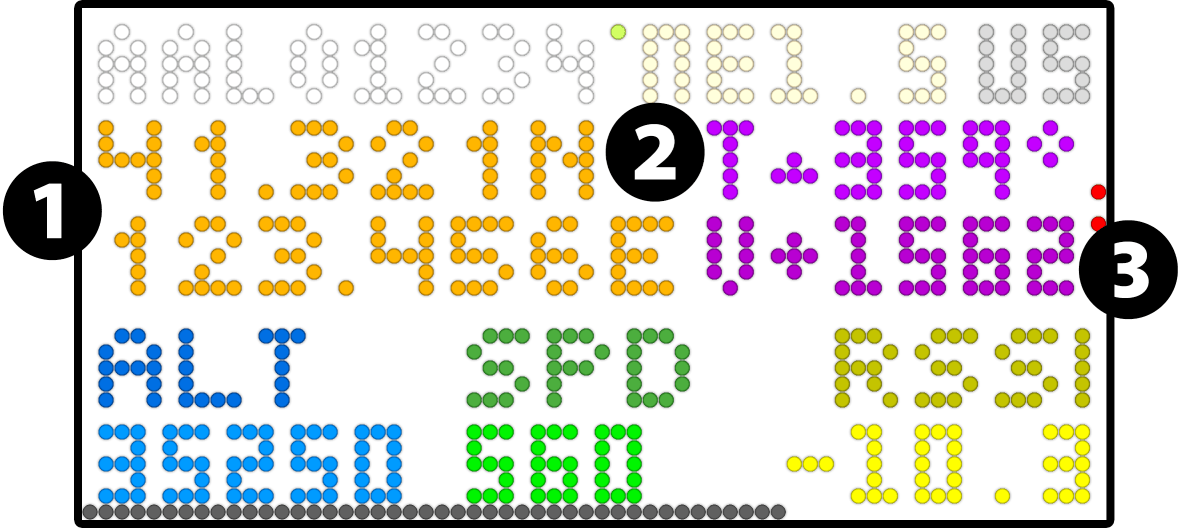
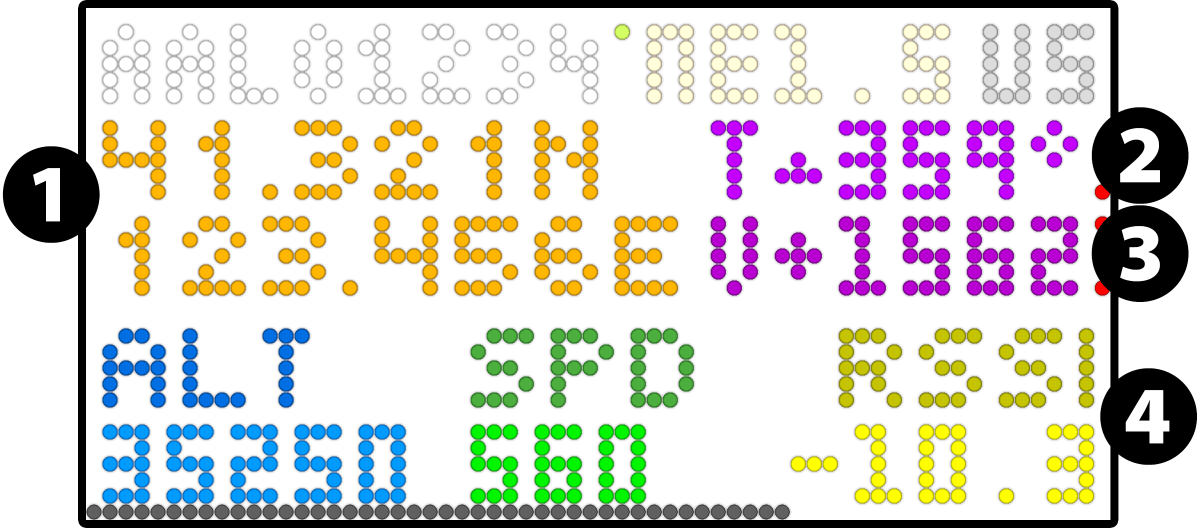
v.8.1.0
In JOURNEY_PLUS and using SHOW_EVEN_MORE_INFO, the RSSI section is now replaced with the Track readout

diff --git a/FlightGazer.py b/FlightGazer.py
@@ -33,7 +33,7 @@ import time
 START_TIME: float = time.monotonic()
 import datetime
 STARTED_DATE: datetime = datetime.datetime.now()
-VERSION: str = 'v.8.0.4 --- 2025-08-27'
+VERSION: str = 'v.8.1.0 --- 2025-08-29'
 import os
 os.environ["PYTHONUNBUFFERED"] = "1"
 import argparse
@@ -2097,9 +2097,9 @@ class PrintToConsole:
         # verbose stats line 3 (timing info)
         json_details_2 = []
         if VERBOSE_MODE:
-            json_details_2.append(f"> Timing control: dump1090 age {dump1090_json_age[0] - determined_time_offset:.3f}s")
+            json_details_2.append(f"> Timing control: dump1090 age {dump1090_json_age[0]:.3f}s")
             if DUMP978_JSON is not None:
-                json_details_2.append(f", dump978 age {dump1090_json_age[1] - determined_time_offset:.3f}s")
+                json_details_2.append(f", dump978 age {dump1090_json_age[1]:.3f}s")
             json_details_2.append(f" | Drift correction next loop: {lockstep_corrector * 1000:.3f}ms")
             json_details_2.append(f" | Detected time offset: {determined_time_offset:.3f}s")
         print("".join(json_details_2))
@@ -2596,7 +2596,8 @@ def main_loop_generator() -> None:
                         else:
                             direc = ""
                         elevation, slant_range_dist = elevation_and_slant(distance, alt)
-                        if abs(determined_time_offset) > 5: dt = 0
+                        if abs(determined_time_offset) > 5 or USING_FILESYSTEM:
+                            dt = 0
                         else: dt = determined_time_offset
                         if source == 'ADS-B':
                             true_data_age = ((seen_pos
@@ -3862,8 +3863,9 @@ class WriteState:
                 'dump1090_type': dump1090 if DUMP1090_JSON is not None else None,
                 'location_is_set': True if (rlat is not None and rlon is not None) else False,
                 'response_time_ms': process_time[0],
-                'dump1090_json_data_age_sec': round(dump1090_json_age[0] - determined_time_offset, 3),
-                'dump978_json_data_age_sec': None if not DUMP978_JSON else round(dump1090_json_age[1] - determined_time_offset, 3),
+                'dump1090_json_data_age_sec': round(dump1090_json_age[0] - determined_time_offset, 3) if not USING_FILESYSTEM else round(dump1090_json_age[0], 3),
+                'dump978_json_data_age_sec': None if not DUMP978_JSON else
+                                                (round(dump1090_json_age[1] - determined_time_offset, 3) if not USING_FILESYSTEM_978 else round(dump1090_json_age[1], 3)),
                 'polling_drift_correction_ms': round(lockstep_corrector * 1000, 3),
                 'json_size_KiB': round(runtime_sizes[0] / 1024, 3),
                 'json_transfer_rate_MiB_per_sec': 0. if process_time[0] == 0 else
@@ -4469,18 +4471,53 @@ class Display(
     Uses techniques from Colin Waddell's its-a-plane-python project but diverges significantly from his design.
 
     This Display class is a huge mess, but it works and its structure has not changed since v.0.8.0.
+    On a Raspberry Pi Zero 2W and using rgbmatrix, it takes about 4 ms to generate each frame.
     Why is this class not broken out as its own module? Threading and global variables, basically. A rewrite at this point isn't worth it imho.
     Data to display is handled and parsed by `DisplayFeeder` while time-based elements like the clock are handled internally.
     Actual draw routines and shape primitives are also handled internally.
-    The actual workings of this class should already be well-explained with all the comments and docstrings.
+
+    Drawing to the display is done in parts and containerized by functionality; as individual data samples can change from loop to loop, it's more
+    "efficient" and flexible to handle the drawing elements piecewise rather than as a whole "scene". This does make the overall logic handling harder,
+    as at this point (v.8.1.0) there are 7 settings that influence the rendering of 4 main layouts, each with subvariations which rely on logic agreements between methods.
+    Additionally during runtime, these layouts can switch between one another as required by other global runtime variables referenced outside of this class.
+    Keeping track of how globals influence what each method does is one of the main sticking points in regards to adding or modifying the display layout.
+    But realistically, the layout has been stable with the last major addition being v.6.0.0 and nothing in the forseeable future should change this in a significant way.
+    (see the changelog of this class at the end of this docstring, I hope you like reading lore)
+
+    Figure 1: The general display state flowchart
+
+    ░░░░░░░░░░░░░░░░░                  ░░░░░░░░░░░░░░░░░░░░░░░░░░░░░░░░░░░░░░░░░░░░░░░░░░░░░░░░░░░░░░░░░
+    ░   Clock (2)   ░ ◄──────────────► ░   Active Plane Display                                        ░
+    ░░░░░░░░░░░░░░░░░                  ░            |                                                  ░
+    Base Display Layout                ░            if        F ──► Default Journey -or (3)-           ░
+                                       ░     ENHANCED_READOUT       Journey Plus (1)                   ░
+                                       ░            |                  ▲                               ░
+                                       ░           T|                  | depends on                    ░
+                                       ░            |                  | ENHANCED_READOUT_AS_FALLBACK  ░
+                                       ░            |                  ▼                               ░
+                                       ░            └───────────► Enhanced Readout (1)                 ░
+                                       ░░░░░░░░░░░░░░░░░░░░░░░░░░░░░░░░░░░░░░░░░░░░░░░░░░░░░░░░░░░░░░░░░
+
+    Key:
+    Sublayouts that are chosen on startup:
+        (1) The default layout or when SHOW_EVEN_MORE_INFO is enabled
+        (2) The default or when CLOCK_CENTER_ROW_2ROWS is enabled
+        (3) Default Journey or Journey Plus
+
+    Notes:
+    Essentially at every loop, all methods are called to draw to the display, but their ability to draw is mainly controlled
+    by the global `active_plane_display`. Then, each section will draw their respective part, depending on what needs to be drawn
+    and where, including positioning, what font to use, and what color. Look through each method as needed.
 
     Use the @Animator decorator to control both how often elements update along with associated logic evaluations.
     When using the decorator, the second (optional) argument specifies the offset for each element in the render queue such that
-    when (global frame counter - offset) % frame duration == 0, the function will run (except for the first frame).
-    Additional quirks: functions when requested to render on the same frame as another are rendered alphabetically, not
-    in the order they are defined in the class. Hence why functions within this class will have a letter prefix before their name.
-    Additionally, each function has their own internal frame counter `count` for each time they are run, incremented by `Animator`.
-    If a function returns True, this resets that internal counter.
+    when (global frame counter - offset) % frame duration == 0, the method will run (except for the first frame).
+    Additional quirks: methods when requested to render on the same frame as another are rendered alphabetically, not
+    in the order they are defined in the class. Hence why methods within this class will have a letter prefix before their name.
+    Additionally, each method has their own internal frame counter `count` for each time they are run, incremented by `Animator`.
+    If a method returns True, this resets that internal counter.
+
+    Figure 2: Frame representation in relation to method order and arguments
 
     Frame ---->  0      1      2      3      4 ...
     a_func(1)    ░░░0░░░▒▒▒1▒▒▒░░░2░░░▒▒▒3▒▒▒
@@ -4488,6 +4525,30 @@ class Display(
     b_func(1)    ░░░0░░░▒▒▒1▒▒▒░░░2░░░▒▒▒3▒▒▒
     c_func(3,1)         ░░░░░░░░░░0░░░░░░░░░░
     ...
+
+    Major additions/changes to this class (living document):
+    - v.8.1.0: In JOURNEY_PLUS and with SHOW_EVEN_MORE_INFO, the Time/RSSI section now shows ground track instead
+    - v.8.0.0: Add variable/adaptive frame rate
+    - v.6.0.0: Implemented the scrolling/marquee (SHOW_EVEN_MORE_INFO), requiring font adapations and layout changes for ENHANCED_READOUT and JOURNEY_PLUS
+    - v.3.4.0: Fully enable JOURNEY_PLUS
+    - v.3.3.0: Responsiveness improvements
+    - v.3.1.0: Add handling for ALTERNATIVE_FONT
+    - v.3.0.0:
+        - Depreciate old sunrise/sunset method and use CLOCK_CENTER_ROW
+        - Enable printing of two lines in the Clock's center row
+    - v.2.9.0:
+        - Add progress bar for planes
+        - Add exception handling for this class
+    - v.2.2.0: Colors are no longer hardcoded
+    - v.2.1.0: Rewrote callsign blink routine
+    - v.2.0.0:
+        - Add sunrise/sunset times or receiver stats to clock
+        - Add brightness changing
+        - Add callsign blinking
+    - v.1.4.0: Introduced ENHANCED_READOUT
+    - v.1.0.0: Baseline Release - "works good enough"
+    - v.0.9.0: The Clock works
+    - v.0.8.0: Borrow logic framework from Collin Waddell's `its-a-plane` project and lay groundwork for this class
     """
     def __init__(self):
 
@@ -5373,7 +5434,7 @@ class Display(
             if self._last_origin is not None or self._last_destination is not None:
                 self.draw_square(
                     CONSTANTS['bbox_x_start'],
-                    JOURNEY_Y_BASELINE + 1, # recall: a higher y-value means lower on the display
+                    JOURNEY_Y_BASELINE, # recall: a higher y-value means lower on the display
                     CONSTANTS['bbox_x_end'],
                     JOURNEY_Y_BASELINE - CONSTANTS['bbox_y_height'] - 1,
                     colors.BLACK
@@ -5789,7 +5850,7 @@ class Display(
 
         return return_flag
 
-    """ Static text (altitude, speed, time/rssi headers) """
+    """ Static text (altitude, speed, time/rssi/track headers) """
     @Animator.KeyFrame.add(base_refresh_speed)
     def o_active_header(self, count):
         if not self.active_plane_display: return True
@@ -5830,6 +5891,17 @@ class Display(
                 TIME_HEADING_COLOR,
                 "TIME"
             )
+        elif not ENHANCED_READOUT and (
+            JOURNEY_PLUS and SHOW_EVEN_MORE_INFO
+        ):
+            _ = graphics.DrawText(
+                self.canvas,
+                HEADER_TEXT_FONT,
+                48 if micro_font else 46,
+                ACTIVE_TEXT_Y,
+                TIME_HEADING_COLOR,
+                "TRCK"
+            )
         else:
             _ = graphics.DrawText(
                 self.canvas,
@@ -5840,13 +5912,16 @@ class Display(
                 "RSSI"
             )
 
-    """ Our active stats readout """
+    """ Our active stats readout. Always includes altitude and speed;
+    RSSI and ground track are also handled here, based on what mode is being seen. """
     @Animator.KeyFrame.add(base_refresh_speed)
     def p_active_readout(self, count):
         if not self.active_plane_display:
             self._last_altitude = None
             self._last_speed = None
             self._last_flighttime = None
+            # note that self._last_groundspeed is not set here, even
+            # though it's being used. `q_enhanced()` (the next method) will do it for us
             return True
         STATS_TEXT_FONT = fonts.smallest_alt if ALTERNATIVE_FONT else fonts.smallest
         ALTITUDE_TEXT_COLOR = colors.altitude_color
@@ -5869,6 +5944,7 @@ class Display(
         speed_now = active_data.get('Speed', "0")
         flighttime_now = active_data.get('FlightTime', "---")
         rssi_now = active_data.get('RSSI', "0")
+        track_now = active_data.get('Track', "T▲0°")
 
         if self._last_altitude != altitude_now:
             if self._last_altitude is not None:
@@ -5937,7 +6013,33 @@ class Display(
                 )
                 return_flag = True
 
-        else:
+        elif not ENHANCED_READOUT and (
+            JOURNEY_PLUS and SHOW_EVEN_MORE_INFO
+        ):
+            # when doing this, we remove the leading 'T' in the text and keep the degree symbol
+            if self._last_groundtrack != track_now:
+                if self._last_groundtrack is not None:
+                    _ = graphics.DrawText(
+                        self.canvas,
+                        STATS_TEXT_FONT,
+                        right_align(self._last_groundtrack[1:]),
+                        READOUT_TEXT_Y,
+                        colors.BLACK,
+                        self._last_groundtrack[1:]
+                    )
+                self._last_groundtrack = track_now
+
+                _ = graphics.DrawText(
+                    self.canvas,
+                    STATS_TEXT_FONT,
+                    right_align(track_now[1:]),
+                    READOUT_TEXT_Y,
+                    TIME_TEXT_COLOR,
+                    track_now[1:]
+                )
+                return_flag = True
+
+        else: # Enhanced Readout or Journey Plus w/o the marquee
             if self._last_rssi != rssi_now:
                 if self._last_rssi is not None:
                     _ = graphics.DrawText(
@@ -5965,10 +6067,17 @@ class Display(
     """ Enhanced readout part 2: Ground track and Vertical Speed """
     @Animator.KeyFrame.add(base_refresh_speed)
     def q_enhanced(self, count):
-        if not self.active_plane_display or not ENHANCED_READOUT:
+        if not self.active_plane_display:
             self._last_groundtrack = None
             self._last_vertspeed = None
             return True
+        if not ENHANCED_READOUT:
+            self._last_vertspeed = None
+            if not (JOURNEY_PLUS and SHOW_EVEN_MORE_INFO):
+                # only reset self._last_groundtrack when `p_active_readout()` isn't referencing it
+                self._last_groundtrack = None
+            return True
+    
         X_POS = 39
         GT_Y_POS = 12
         VS_Y_POS = 18 if not SHOW_EVEN_MORE_INFO else 16

diff --git a/README.md b/README.md
@@ -141,8 +141,8 @@ If you want one, I can also build one for you. (also Coming Soon™)
 |---|---|
 | <img src="media/FG_clock-annotated.png" width="360" alt="FlightGazer clock layout"> | <b>Clock</b><br>1.	Time, day of week, date<br>2.	Center readout<br>3.	Flyby counter – Number of aircraft that have been in your designated area today<br>4.	Tracking counter – How many aircraft your receiver is currently tracking<br>5.	Range – The distance of the farthest aircraft your receiver can detect<br> |
 | <img src="media/FG_default-journey-annotated.png" width="360" alt="FlightGazer journey layout"> | <b>Journey Readout</b><br>1.	Aircraft's callsign<br>2.	Aircraft's current distance and direction from your site<br>3.	Country of the aircraft<br>4.	Current altitude of the aircraft<br>5.	Current speed of the aircraft<br>6.	Time the aircraft has spent in the air<br>7.	Origin airport<br>8.	Destination airport<br>9.	Current count of aircraft in your specified tracking area<br>10.	UAT indicator<br>11.	Progress bar indicating how long the current aircraft will be displayed<br> |
-| <img src="media/FG_journey-plus-annotated.png" width="360" alt="FlightGazer journey plus"> | <b>Journey Plus</b><br>1.	Scrolling marquee (enabled with `Show Even More Info`) or aircraft ground track and vertical speed<br>2.	RSSI – (Received Signal Strength Index) how strong of a signal from the aircraft as detected by the receiver (in dBFS)<br> |
-| <img src="media/FG_enhanced-readout-annotated.png" width="360" alt="FlightGazer enhanced readout"> | <b>Enhanced Readout</b><br>1.	Current position of the aircraft<br>2.	Ground track of the aircraft<br>3.	Current vertical speed<br> |
+| <img src="media/FG_journey-plus-annotated.png" width="360" alt="FlightGazer journey plus"> | <b>Journey Plus</b><br>1.	Scrolling marquee (enabled with `Show Even More Info`) or aircraft ground track and vertical speed<br>2.	Ground track of the aircraft (or RSSI of signal when `Show Even More Info` is disabled)<br> |
+| <img src="media/FG_enhanced-readout-annotated.png" width="360" alt="FlightGazer enhanced readout"> | <b>Enhanced Readout</b><br>1.	Current position of the aircraft<br>2.	Ground track of the aircraft<br>3.	Current vertical speed of the aircraft<br>4.	RSSI – (Received Signal Strength Index) how strong of a signal from the aircraft as detected by the receiver (in dBFS) |
 
 </div>
 
